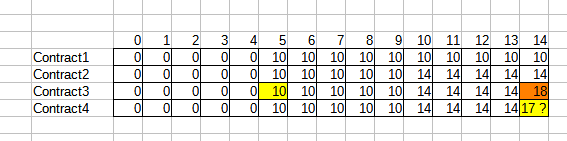
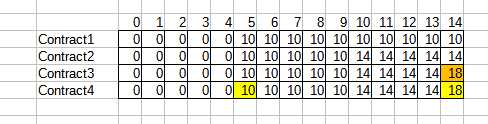
Readme explanation, skip rest of row in dp

diff --git a/app/services/spaceship_service.py b/app/services/spaceship_service.py
@@ -24,12 +24,18 @@ def optimize(contracts):
     # Loop through the contracts and end times
     for i, contract in enumerate(contracts):
         for j in range(max_end_time + 1):
+            # Copy previous cell if past end of contract
+            if j >contract["start"] + contract["duration"]:
+                profits[i][j] = profits[i][j-1]
+                selected_contracts[i][j] = selected_contracts[i][j-1]
+                continue
+                
             # Compute the profit obtained by not selecting the contract
             no_profit = profits[i-1][j] if i > 0 else 0
 
             # Compute the profit obtained by selecting the contract
-            if j >= contract["start"] + contract["duration"]:
-                yes_profit = contract["price"] + profits[i-1][contract["start"]]
+            if j == contract["start"] + contract["duration"]:
+                yes_profit = contract["price"] + profits[i-1][contract["start"]]              
             else:
                 yes_profit = 0
 
@@ -51,19 +57,19 @@ def optimize(contracts):
 
 @early_termination
 def brute_force(contracts):
-    # get all combinations
+    # Get all combinations
     all_combinations = []
     for i in range(len(contracts)+1):
         for subset in itertools.combinations(contracts, i):
             all_combinations.append(list(subset))
     
     no_overlap = []
-    # remove combinations with overlaps
+    # Remove combinations with overlaps
     for combination in all_combinations:
         if not has_overlaps(combination):
             no_overlap.append(combination)
     
-    # return combination with maximum profit
+    # Return combination with maximum profit
     return find_most_profitable_combination(no_overlap)
 
 @early_termination
@@ -101,7 +107,6 @@ def greedy_selection(contracts):
 
 @early_termination
 def random_selection(contracts):
-    
     res = random.sample(contracts, k=random.randint(1,len(contracts)))
     if has_overlaps(res):
         raise NoValidResultException( "No valid result found via random selection. Please try again or select a different algorithm.")

diff --git a/README.md b/README.md
@@ -81,13 +81,23 @@ Here endpoints are registered to the application, configure CORS and add custom 
 # Dynamic Programming Solution
 The Dynamic Programming (DP) will be the solution I am presenting for this test. This solution guarantees a valid set of contracts that optimizes for profit, at the cost of some memory.
 
-<img src="images/iter1.png"></img>
+<img src="images/iter_1.png"></img>
 
-<img src="images/iter2.png"></img>
+When a contract is completed, we compare whether it is more profitable to include the contract by summing its value and the value at the the start of the contract. In this case 10+0=10. The rest of the row is filled with 10 before moving onto the next contract.
 
-<img src="images/iter3.png"></img>
+<img src="images/iter_2.png"></img>
 
-<img src="images/iter4.png"></img>
+Up to the end of the second contract (hour 10), we simply copy the above row. At hour 10, we compare the profit that could be made by accepting the contract with the previous row. Since 0+14 > 10, we accept the contract and whatever contract was already accepted at the start of this contract (in this case it's nothing). The rest of the row is filled with 14.
+
+<img src="images/iter_3.png"></img>
+
+At hour 14, we compare the possible profit to the previous row. Since 8+10>14, we accept Contract1 and Contract3.
+
+<img src="images/iter_4.png"></img>
+
+At hour 14, we compare the possible profit to the previous row. Since 7+10<18, we reject Contract4 and keep Contract1 and Contract3.
+
+### Runtime and Space Analysis
 
 The running time of this solution is *O(mn + n log n)*, where *n* is the number of contracts, and *m* is the latest time a contract will end.The set of contracts is sorted at the start of the algorithm, running at *O(n log n)* time The comparisons and calculation done in each iteration are simple and will run in constant time. 
 
